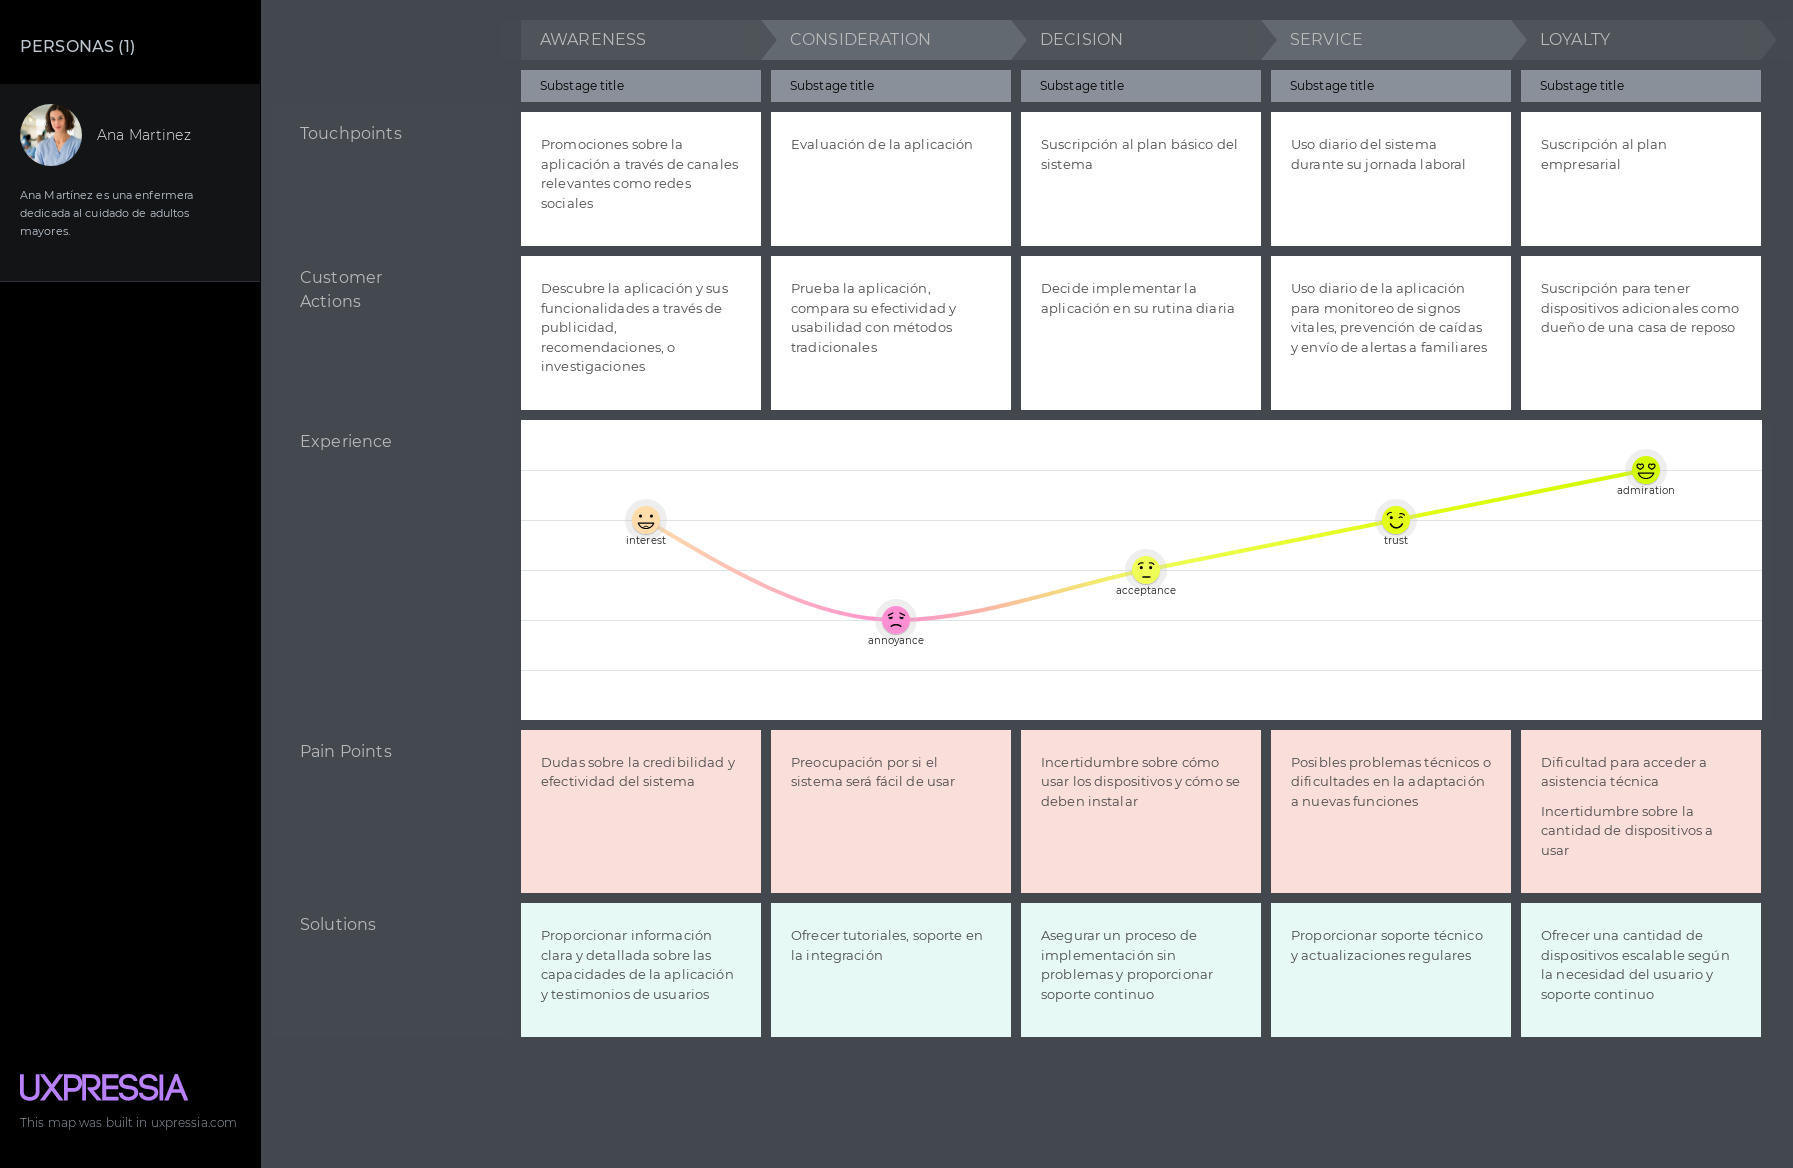
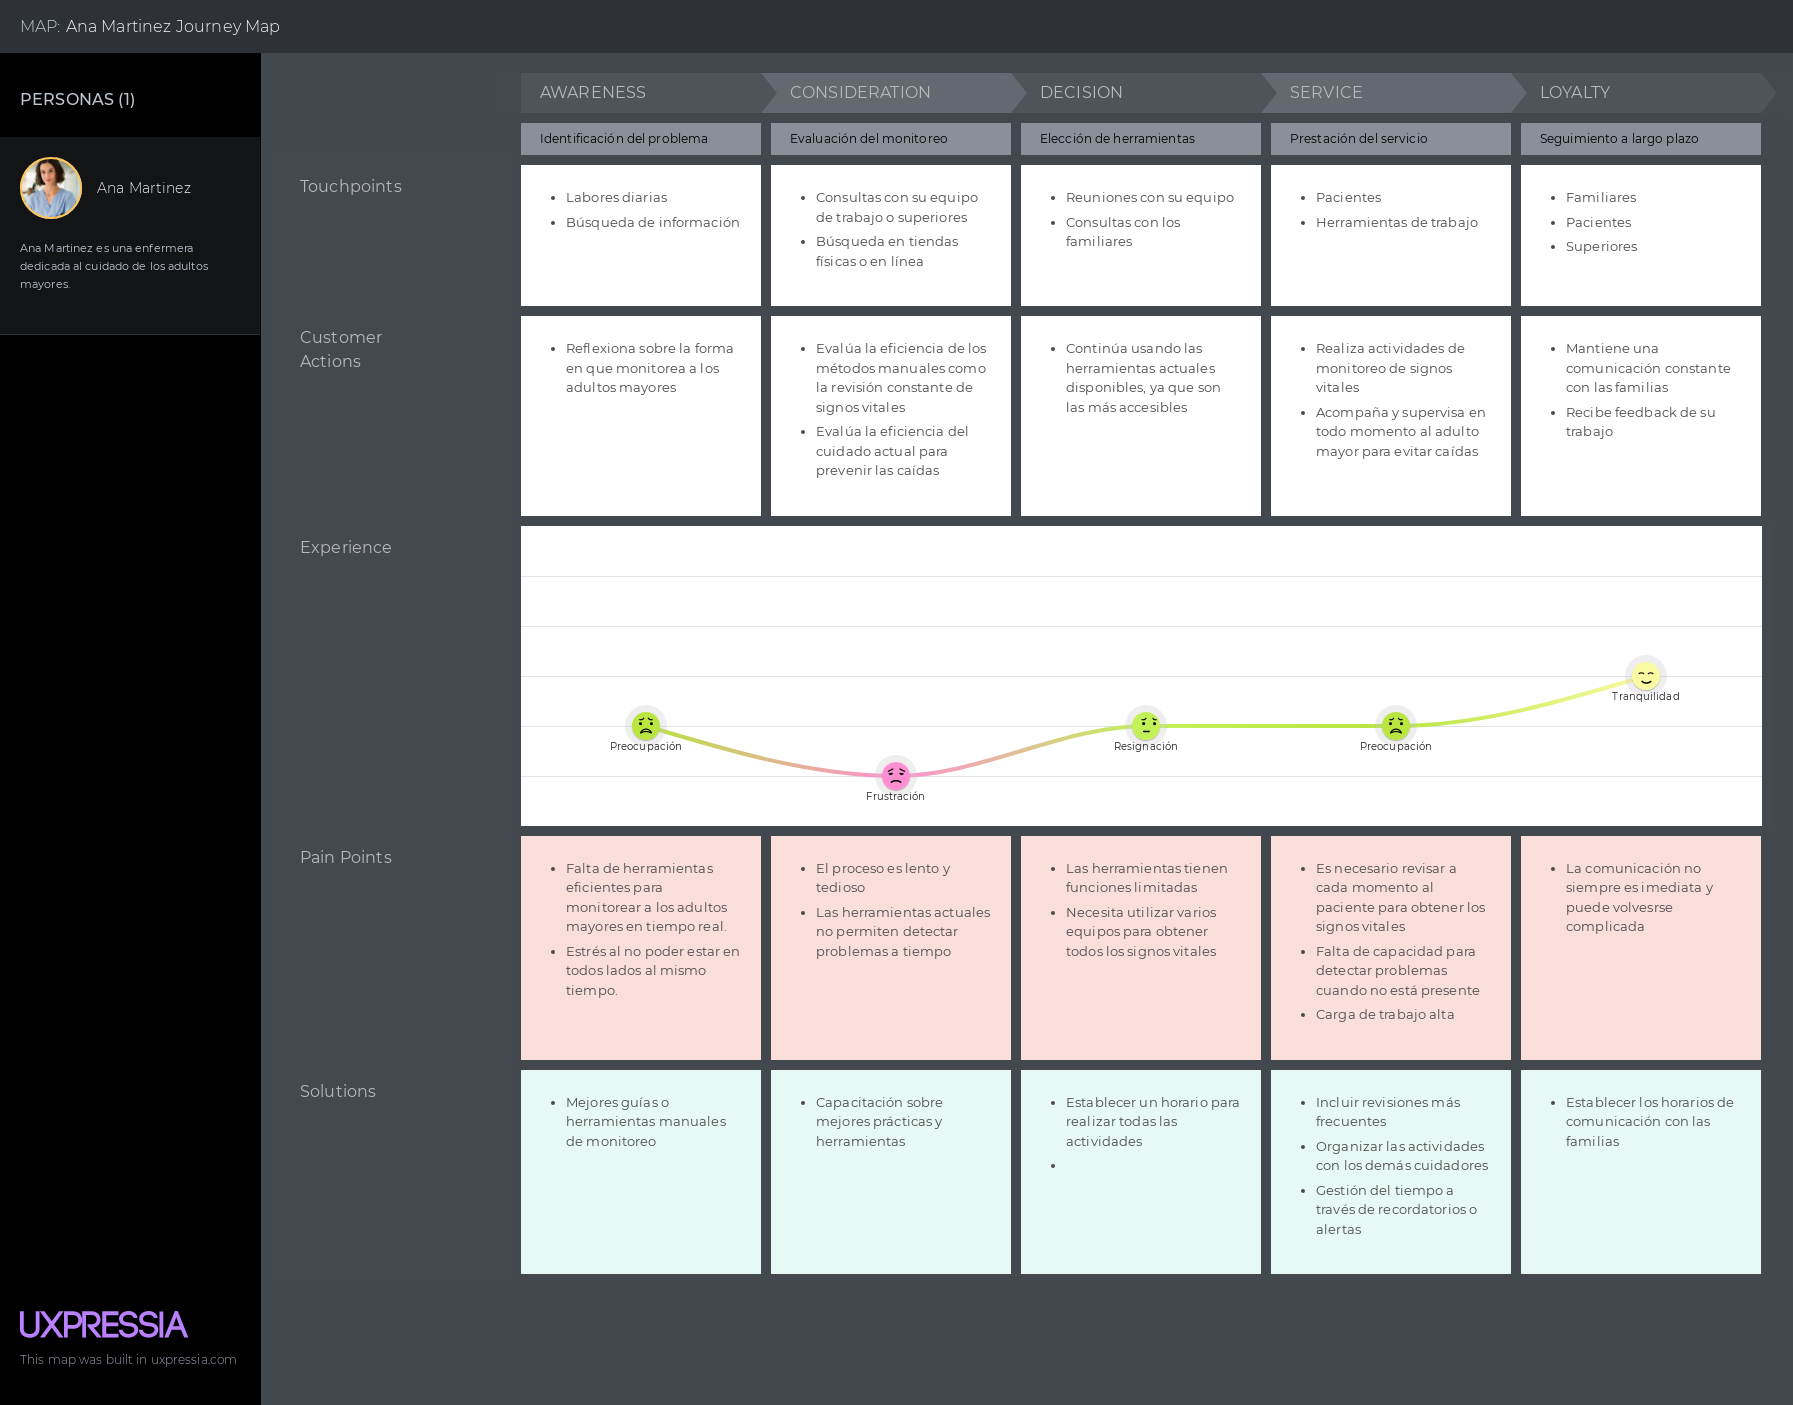
Updated: Updated needfinding
Updated user persona, as-is scenario mapping, journey mapping

diff --git a/README.md b/README.md
@@ -667,113 +667,98 @@ Sabremos que tenemos éxito cuando veamos una reducción en los incidentes de ca
 
 **Segmento 1:** Cuidadores de adultos mayores (Caregivers)
 
+Ana Martinez es una enfermera de 32 años que trabaja en Lima, Perú, especializada en el cuidado de adultos mayores. Ella es una cuidadora comprometida que se siente motivada por el bienestar y la seguridad de sus pacientes, y siempre busca ofrecer el mejor servicio posible. Su enfoque está en mejorar la eficiencia en el cuidado de sus pacientes, a pesar de enfrentar desafíos como las caídas y la falta de tecnología para facilitar su trabajo. A Ana le interesa incorporar nuevas tecnologías en su rutina para monitorear signos vitales de manera más eficiente y se siente frustrada por la dependencia de métodos manuales. Utiliza canales de comunicación como WhatsApp e Instagram para conectarse con los demás y sigue marcas tecnológicas como Xiaomi.
+
 ![User Persona](./assets/user-persona-ana-martinez.png)
 
 **Segmento 2:** Dueños de casas de reposo (Nursing Home Owners)
+
+Gabriel Lopez es un enfermero de 40 años que dirige una casa de reposo para adultos mayores en Lima, Perú. Como dueño y administrador, su principal objetivo es mejorar la eficiencia en la atención a los pacientes a través de un sistema que le permita gestionar el estado de estos de manera más efectiva. Aunque tiene una amplia experiencia en la gestión de personal y pacientes, uno de sus mayores retos es atender a todos sus pacientes simultáneamente, especialmente durante los momentos de mayor actividad. Gabriel valora profundamente la tecnología y busca constantemente formas de integrarla para optimizar tanto la calidad de los cuidados como la administración en su lugar de trabajo. Utiliza WhatsApp como su principal canal de comunicación y se siente influenciado por marcas como Lenovo.
 
 ![User Persona](./assets/user-persona-gabriel-lopez.png)
 
 
 ### 2.3.2. User Task Matrix
 
-**Segmento 1:** Cuidadores de adultos mayores (Caregivers)
+El User Task Matriz presenta las actividades en común que más realizan los usuarios Ana Martinez y Gabriel Lopez. Entre las más importantes se encuentran la supervisión del estado de los adultos mayores, gestión de los cuidados y medicación y la revisión de actividades diarias. Esto sugiere que tienen prioridades similares en su trabajo.
 
 <table>
   <tr>
-    <th>User Task</th>
-    <th>Frequency</th>
-    <th>Importance</th>
-  </tr>
-  <tr>
-    <td>Monitoreo de signos vitales</td>
-    <td>SIEMPRE</td>
-    <td>ALTA</td>
-  </tr>
-  <tr>
-    <td>Prevención de caídas</td>
-    <td>SIEMPRE</td>
-    <td>ALTA</td>
-  </tr>
-  <tr>
-    <td>Comunicación con familias</td>
-    <td>USUALMENTE</td>
-    <td>MEDIA</td>
-  </tr>
-  <tr>
-    <td>Gestión de medicación del paciente</td>
-    <td>USUALMENTE</td>
-    <td>ALTA</td>
-  </tr>
-  <tr>
-    <td>Aseo y cuidado del paciente</td>
-    <td>SIEMPRE</td>
-    <td>ALTA</td>
-  </tr>
-</table>
-
-
-**Segmento 2:** Dueños de casas de reposo (Nursing Home Owners)
-
-<table>
-  <tr>
-    <th>User Task</th>
-    <th colspan="2">Gabriel Lopez</th>
+    <th style="text-align: center;">User Task</th>
+    <th colspan="2" style="text-align: center;">Ana Martinez</th>
+    <th colspan="2" style="text-align: center;">Gabriel Lopez</th>
   </tr>
   <tr>
     <th></th>
-    <th>Frequency</th>
-    <th>Importance</th>
+    <th style="text-align: center;">Frequency</th>
+    <th style="text-align: center;">Importance</th>
+    <th style="text-align: center;">Frequency</th>
+    <th style="text-align: center;">Importance</th>
   </tr>
   <tr>
-    <td>Administrar y coordinar al personal de la casa de reposo</td>
-    <td>SIEMPRE</td>
-    <td>ALTA</td>
+    <td style="text-align: center;">Supervisión del estado de los pacientes</td>
+    <td style="text-align: center;">SIEMPRE</td>
+    <td style="text-align: center;">ALTA</td>
+    <td style="text-align: center;">SIEMPRE</td>
+    <td style="text-align: center;">ALTA</td>
   </tr>
   <tr>
-    <td>Revisar y priorizar actividades diarias según su importancia</td>
-    <td>SIEMPRE</td>
-    <td>ALTA</td>
+    <td style="text-align: center;">Comunicación y coordinación con familias de los pacientes</td>
+    <td style="text-align: center;">USUALMENTE</td>
+    <td style="text-align: center;">ALTA</td>
+    <td style="text-align: center;">USUALMENTE</td>
+    <td style="text-align: center;">MEDIA</td>
   </tr>
   <tr>
-    <td>Implementar y evaluar protocolos de atención</td>
-    <td>A VECES</td>
-    <td>MEDIA</td>
+    <td style="text-align: center;">Gestión de cuidados y medicación de los pacientes</td>
+    <td style="text-align: center;">SIEMPRE</td>
+    <td style="text-align: center;">ALTA</td>
+    <td style="text-align: center;">SIEMPRE</td>
+    <td style="text-align: center;">ALTA</td>
   </tr>
   <tr>
-    <td>Comunicar información a los familiares</td>
-    <td>SIEMPRE</td>
-    <td>ALTA</td>
-  </tr>
-  <tr>
-    <td>Monitorear el estado de los pacientes mediante cámaras de seguridad</td>
-    <td>SIEMPRE</td>
-    <td>ALTA</td>
+    <td style="text-align: center;">Revisar y priorizar actividades diarias</td>
+    <td style="text-align: center;">SIEMPRE</td>
+    <td style="text-align: center;">ALTA</td>
+    <td style="text-align: center;">SIEMPRE</td>
+    <td style="text-align: center;">ALTA</td>
   </tr>
 </table>
 
+
 ### 2.3.3. User Journey Mapping
 
-**Segmento 1:** Cuidadores de adultos mayores (Caregivers)
+**User Persona:** Ana Martinez
+
+El User Journey Mapping de Ana Martínez destaca las dificultades que enfrenta a lo largo de su labor diaria. Durante todo el proceso, Ana experimenta una carga significativa debido a la falta de herramientas eficientes que faciliten el monitoreo continuo de los pacientes. Esta situación genera estrés y preocupación constante, especialmente en relación con la prevención de caídas y la precisión en la toma de signos vitales. 
 
 ![User Journey Mapping](./assets/user-journey-mapping-caregiver.png)
 
-**Segmento 2:** Dueños de casas de reposo (Nursing Home Owners)
+**User Persona:** Gabriel Lopez
+
+El User Journey Mapping de Gabriel López uestra su enfoque en la eficiencia de su personal y la mejora del bienestar de los pacientes. A lo largo de las fases, Gabriel se enfrenta a desafíos como la falta de un protocolo adecuado y la carga de trabajo, pero valora la adopción de nuevas tecnologías para optimizar la atención. Aunque se comunica activamente con los familiares y monitorea a los pacientes mediante cámaras, aún percibe la necesidad de una solución tecnológica que automatice estos procesos, mejorando tanto la atención de los pacientes como la tranquilidad de sus familias y cuidadores.
 
 ![User Journey Mapping](./assets/user-journey-mapping-owner.png)
 
 ### 2.3.4. Empathy Mapping
 
-**Segmento 1:** Cuidadores de adultos mayores (Caregivers)
+**User Persona:** Ana Martinez
+
+En el mapa de empatía de Ana Martinez, observamos que es una persona profundamente comprometida con la seguridad y bienestar de sus pacientes, pero que se siente frustrada por la falta de herramientas tecnológicas que faciliten su labor. A diario, organiza su trabajo mediante horarios y recordatorios, realiza el monitoreo de signos vitales, y ayuda a los pacientes a evitar caídas, mientras escucha tanto las necesidades de estos como el agradecimiento de sus familias. Aunque enfrenta dificultades para garantizar que los pacientes se movilicen con seguridad, ve en la tecnología una oportunidad para optimizar sus tareas y mejorar la calidad de su trabajo.
 
 ![Empathy Mapping](./assets/empathy-mapping-ana-martinez.png)
 
-**Segmento 2:** Dueños de casas de reposo (Nursing Home Owners)
+**User Persona:** Gabriel Lopez
+
+En el mapa de empatía de Gabriel Lopez, observamos que está preocupado por cómo gestionar eficientemente la atención de todos sus pacientes y asegurar que todos reciban el cuidado adecuado. Escucha al personal expresar dificultades en el monitoreo y en la atención de los pacientes, así como comentarios sobre la necesidad de mejorar la atención y la comunicación. Observa un entorno con múltiples tareas y una carga de trabajo alta, y nota que las tecnologías pueden ser difíciles de usar para los pacientes. Su objetivo es elevar la calidad del cuidado y aumentar la satisfacción de los pacientes y sus familias.
 
 ![Empathy Mapping](./assets/empathy-mapping-gabriel-lopez.png)
 
 ### 2.3.5. As-is Scenario Mapping
 
-**Segmento 1:** Cuidadores de adultos mayores (Caregivers)
+**User Persona:** Ana Martinez
+
+Este mapa muestra el flujo de trabajo de Ana Martínez en la actualidad, desde el inicio de su turno hasta la comunicación con las familias. En cada fase, Ana realiza tareas como la revisión de su agenda, monitoreo de signos vitales (pulso, presión arterial y temperatura), ajustes en las posiciones de los pacientes para evitar las caídas y la comunicación constante con sus familias. Sus pensamientos están centrados en la organización y la precisión, mientras que sus emociones varían entre alivio cuando todo está en orden, estrés y preocupación constante por la prevención de caídas.
 
 ![As-Is Scenario Mapping](./assets/asis-scenario-mapping-ana-martinez.jpg)
 
@@ -789,7 +774,9 @@ Sabremos que tenemos éxito cuando veamos una reducción en los incidentes de ca
 **Blank Areas**
 - Qué tecnologías se pueden emplear para mejorar su trabajo
 
-**Segmento 2:** Dueños de casas de reposo (Nursing Home Owners)
+**User Persona:** Gabriel Lopez
+
+Este mapa muestra el flujo de trabajo de Gabriel Lopez en la actualidad. Sus principales actividades son la asignación de tareas a su personal, supervición y la comunicación con los familiares de sus pacientes. En cada fase realiza tareas como priorizar las tareas de los cuidadores, supervisión a través de cámaras de seguridad e informar a las familias sobre el estado de los adultos mayores. Sus pensamientos están centrados en la efectividad del cuidado que se brinda en su casa de reposo, mientras que sus emociones varían entre frustración, insatisfacción y preocupación. 
 
 ![As-Is Scenario Mapping](./assets/asis-scenario-mapping-gabriel-lopez.jpg)
 
